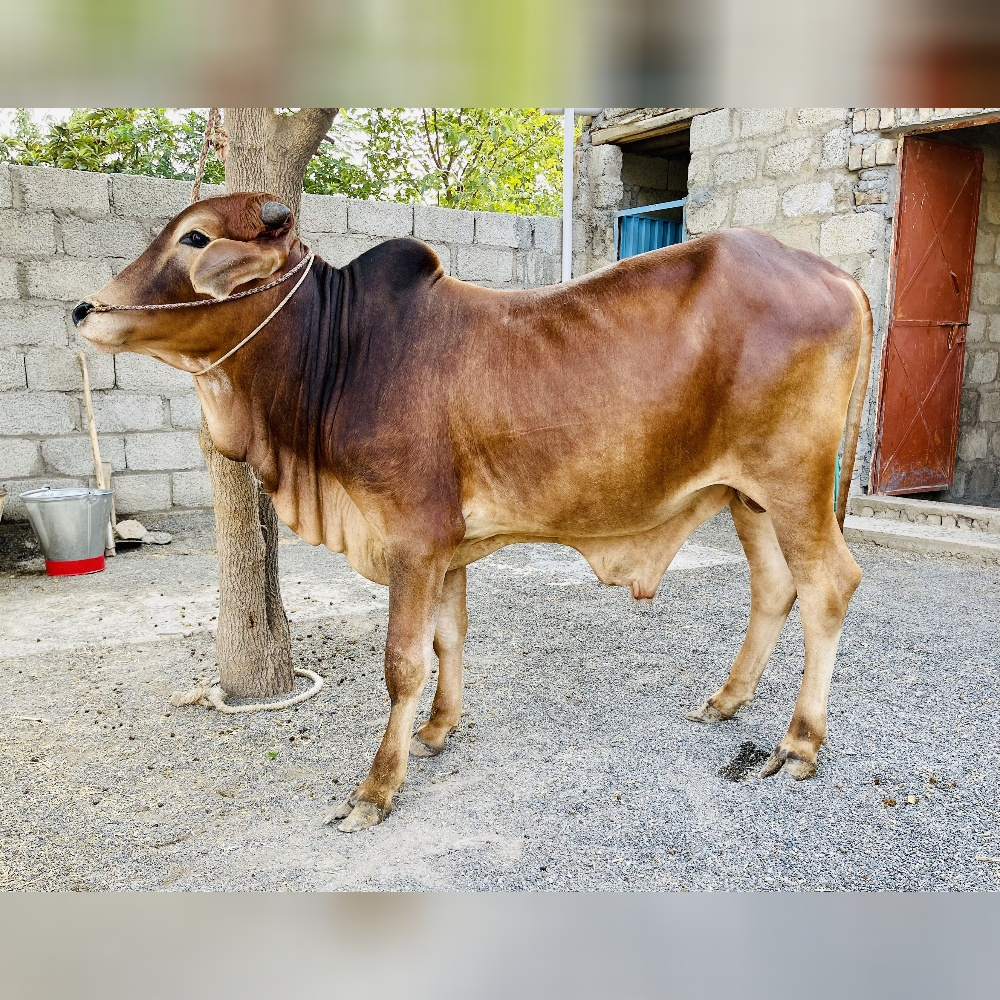
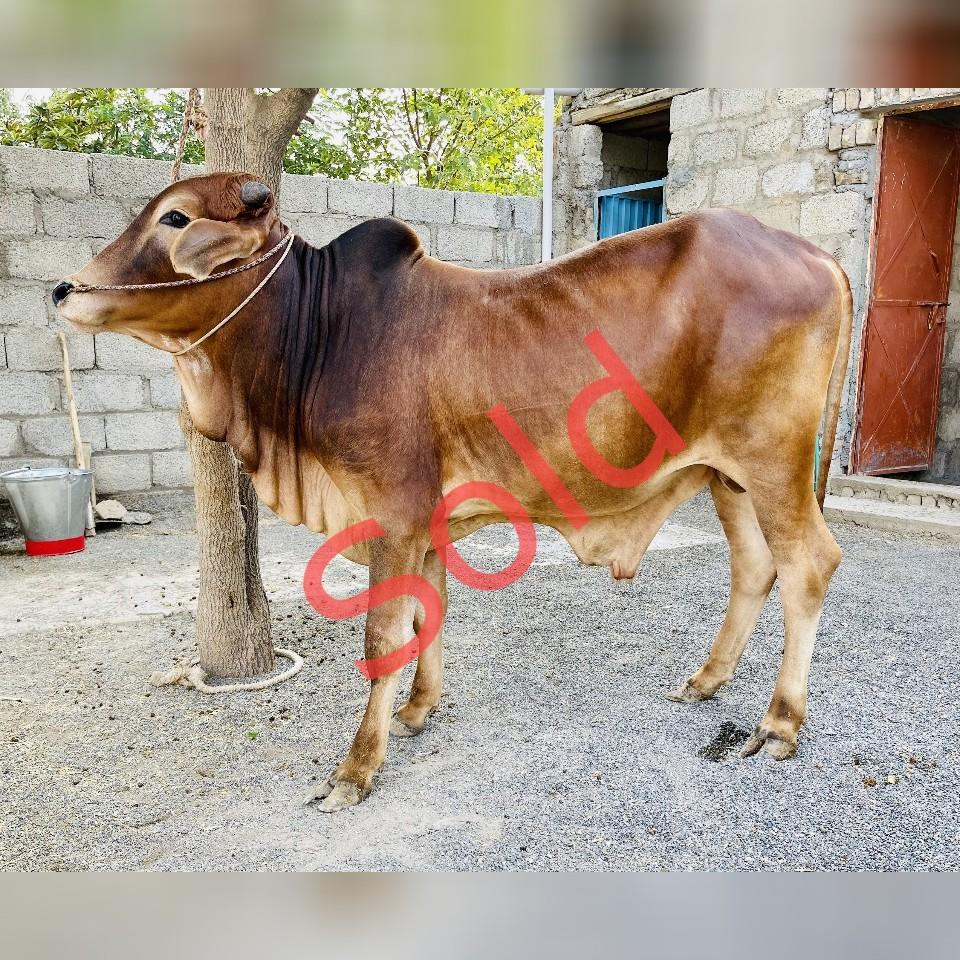
Update for 2021

diff --git a/components/catalogus.tsx b/components/catalogus.tsx
@@ -2,28 +2,15 @@ const bulls = [
   {
     code: "B01",
     show_price : "true",
-    availability: "In stock",
+    availability: "Sold",
     breed: "Dhanni",
     category: "Bull",
     imageUrl: "/assets/img/catalogue/bull/01.jpg",
     color: "White",
     addOns: "Delivery, Butcher, Shelter",
-    price: 269000,
+    price: 240000,
     currentWeight: 320,
     expectedWeight: 340,
-  },
-  {
-    code: "B02",
-    show_price : "true",
-    availability: "In stock",
-    breed: "Dhanni",
-    category: "Bull",
-    imageUrl: "/assets/img/catalogue/bull/02.jpg",
-    color: "White",
-    addOns: "Delivery, Butcher, Shelter",
-    price: 229000,
-    currentWeight: 300,
-    expectedWeight: 320,
   },
   {
     code: "B03",
@@ -117,19 +104,6 @@ const goats = [
     addOns: "Delivery, Shelter",
     price: 66000,
     currentWeight: 63,
-    expectedWeight: 67,
-  },
-  {
-    code: "G06",
-    show_price : "true",
-    availability: "In stock",
-    breed: "Makhi Cheena",
-    category: "Goat",
-    imageUrl: "/assets/img/catalogue/goats/106.jpg",
-    color: "Brown Cheena",
-    addOns: "Delivery, Shelter",
-    price: 66000,
-    currentWeight: 62,
     expectedWeight: 67,
   },
   {
@@ -284,7 +258,7 @@ export default function Catalogue() {
         <div className="space-y-12">
           <div className="space-y-5 sm:space-y-4 md:max-w-xl lg:max-w-3xl xl:max-w-none">
             <h2 className="text-4xl font-extrabold tracking-tight sm:text-4xl">
-              Catalogue
+              Catalogue - 2021
             </h2>
             <p className="text-xl text-gray-500">
               All our animals are <span className="text-green-600 text font-extrabold"> vaccinated</span>,
@@ -406,8 +380,8 @@ export default function Catalogue() {
             <h3 className="text-3xl font-extrabold tracking-tight sm:text-3xl">
               Goats
             </h3>
-            <p className="text-xl font-medium text-gray-900">What you are looking for is already sold? <a className="underline text-red-500" target="_blank" href={`https://api.whatsapp.com/send?phone=+923130794980&text=Hi, I have a custom request`}> Tap here</a> to request and we will arrange one for you!
-            </p>
+            {/* <p className="text-xl font-medium text-gray-900">What you are looking for is already sold? <a className="underline text-red-500" target="_blank" href={`https://api.whatsapp.com/send?phone=+923130794980&text=Hi, I have a custom request`}> Tap here</a> to request and we will arrange one for you!
+            </p> */}
             <ul className="space-y-12 sm:grid sm:grid-cols-2 sm:gap-x-6 sm:gap-y-12 sm:space-y-0 lg:grid-cols-3 lg:gap-x-8">
             {goats.map((goat) => (
               <li key={goat.imageUrl}>
@@ -511,8 +485,8 @@ export default function Catalogue() {
             ))}
           </ul>
           <hr></hr>
-          <p className=" text-xl font-medium text-gray-900">What you are looking for is already sold? <a className="underline text-red-500" target="_blank" href={`https://api.whatsapp.com/send?phone=+923130794980&text=Hi, I have a custom request`}> Tap here</a> to request and we will arrange one for you!
-            </p>
+          {/* <p className=" text-xl font-medium text-gray-900">What you are looking for is already sold? <a className="underline text-red-500" target="_blank" href={`https://api.whatsapp.com/send?phone=+923130794980&text=Hi, I have a custom request`}> Tap here</a> to request and we will arrange one for you!
+            </p> */}
           </div>
         </div>
       </div>
